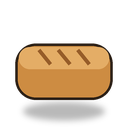
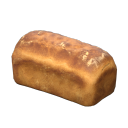
Update food assets and rebalance provisions

diff --git a/server/src/game_state/tests/hunger_tests.rs b/server/src/game_state/tests/hunger_tests.rs
@@ -60,7 +60,7 @@ fn last_hunger_update(msgs: &[ServerMessage]) -> Option<(u32, HungerState, u64)>
 
 /// The tuning anchor: one full meal per game day. The Well-Fed band must
 /// cover a day's decay, and a day's decay must be at least 90% of the band —
-/// eat once a day (jerky-sized) and you stay fed, skip it and you go hungry.
+/// eat one loaf a day and you stay fed, skip it and you go hungry.
 #[test]
 fn one_meal_per_game_day_keeps_you_fed_and_no_more() {
     let day_secs = super::super::time::REAL_DAY_DURATION_SECONDS as u64;
@@ -74,26 +74,26 @@ fn one_meal_per_game_day_keeps_you_fed_and_no_more() {
         decay_per_day * 10 >= band_width * 9,
         "a day's decay ({decay_per_day}) must nearly drain the band ({band_width}) or one meal a day stops mattering"
     );
-    // The day's meal exists in the catalog: jerky covers a full day.
+    // The day's meal exists in the catalog: bread covers a full day.
     let defs = ItemDefs::load();
-    let jerky = defs.get("jerky").expect("jerky is in items.csv");
-    assert!(u64::from(jerky.nutrition.unwrap()) >= decay_per_day);
+    let bread = defs.get("bread").expect("bread is in items.csv");
+    assert!(u64::from(bread.nutrition.unwrap()) >= decay_per_day);
 }
 
 #[tokio::test]
 async fn eating_feeds_and_consumes_the_food() {
     let game_state = make_test_game_state("eat_feeds");
-    let (id, mut rx) = make_eater(&game_state, "eater", 500).await;
+    let (id, mut rx) = make_eater(&game_state, "eater", 200).await;
     put_in_bag(&game_state, &id, 1, "bread").await;
     drain(&mut rx);
 
     game_state.use_item(&id, 1).await;
 
-    assert_eq!(game_state.hunger_satiation(&id).await, Some(680));
+    assert_eq!(game_state.hunger_satiation(&id).await, Some(740));
     assert!(bag_ids(&game_state, &id).await.is_empty(), "bread is eaten");
     let msgs = drain(&mut rx);
     let (satiation, state, poisoned) = last_hunger_update(&msgs).expect("HungerUpdate sent");
-    assert_eq!((satiation, state, poisoned), (680, HungerState::WellFed, 0));
+    assert_eq!((satiation, state, poisoned), (740, HungerState::WellFed, 0));
 }
 
 #[tokio::test]
@@ -104,7 +104,7 @@ async fn a_normal_range_meal_never_overshoots_into_stuffed() {
 
     game_state.use_item(&id, 1).await;
 
-    // 700 + 540 clamps to the soft cap, not into the Stuffed band.
+    // 700 + 300 clamps to the soft cap, not into the Stuffed band.
     assert_eq!(game_state.hunger_satiation(&id).await, Some(850));
 }
 
@@ -114,7 +114,7 @@ async fn deliberate_overeating_reaches_stuffed_and_the_cap_refuses() {
     let (id, mut rx) = make_eater(&game_state, "glutton", 820).await;
     put_in_bag(&game_state, &id, 1, "jerky").await;
     game_state.use_item(&id, 1).await;
-    // 820 is above the 800 threshold: the full 540 lands, capped at 1000.
+    // 820 is above the 800 threshold: the full 300 lands, capped at 1000.
     assert_eq!(game_state.hunger_satiation(&id).await, Some(SATIATION_MAX));
     let msgs = drain(&mut rx);
     assert_eq!(last_hunger_update(&msgs).unwrap().1, HungerState::Stuffed);

diff --git a/doc/assets/items.md b/doc/assets/items.md
@@ -39,11 +39,20 @@
     - 원화는 chatgpt ![원화](../images/dagger.png)
 - ornate_cross_belt.glb — Meshy.ai (유료 생성, 2026-08-02, "Ornate Cross Belt"). 완전 소유권·상업 OK (characters.md License 참조). FBX를 Blender로 임포트해 0.4배 스케일 적용(직경 0.4m, 높이 0.15m), 원점=바닥 중심, 텍스처 512²로 축소, 검은 emissive 제거. 아이콘은 Cycles 직교 측면·위 각도 렌더 512²→128² (2026-08-02)
     - 원화는 chatgpt ![원화](../images/ornate_cross_belt.png)
+- apple.glb — Meshy AI "Crimson Apple with Leaf" (Pro 요금제, 2026-08-03 생성). 지름 0.15m로 스케일 적용, 원점을 바닥 중앙으로 이동. 텍스처 2048→512 축소, metallic/emissive 맵은 값이 거의 0이라 제거하고 metallicFactor=0. `client/public/items/apple.png` 아이콘은 이 모델을 128x128로 렌더링한 것
+    - 원화는 ChatGPT 이미지 생성 (ChatGPT Pro 20x, 2026-08-03) ![원화](../images/apple.png)
+- bread.glb — Meshy.ai (유료 생성, 2026-08-03, "Crusty Loaf of Bread"). 완전 소유권·상업 OK (characters.md License 참조). FBX를 Blender로 임포트해 길이 0.28m로 스케일 적용(0.28×0.14×0.14m, 사과보다 크게), 원점=바닥 중심, 텍스처 512²로 축소, 검은 emissive 제거. 아이콘은 Cycles 직교 측면·위 각도 렌더 512²→128² (2026-08-04)
+    - 원화는 ChatGPT 이미지 생성 (ChatGPT Pro 20x, 2026-08-04) ![원화](../images/bread.png)
+- cheese_wedge.glb — Meshy.ai (유료 생성, 2026-08-03, "Swiss cheese wedge"). 완전 소유권·상업 OK (characters.md License 참조). GLB를 Blender로 임포트해 밑면 0.15m로 스케일 적용(0.15×0.15×0.08m, bread.glb의 절반 길이), 원점=바닥 중심, 텍스처 512²로 축소, 검은 emissive 제거. 아이콘은 Cycles 직교 측면·위 각도 렌더 512²→128² (2026-08-04)
+    - 원화는 ChatGPT 이미지 생성 (ChatGPT Pro 20x, 2026-08-04) ![원화](../images/cheese_wedge.png)
+- jerky.glb — Meshy.ai (유료 생성, 2026-08-03, "Beef Jerky Strips"). 완전 소유권·상업 OK (characters.md License 참조). GLB를 Blender로 임포트해 바닥 면적 0.16m로 스케일 적용(0.16×0.16×0.05m, 사과와 같은 급이지만 납작한 무더기), 원점=바닥 중심, 텍스처 512²로 축소, 검은 emissive 제거. 아이콘은 Cycles 직교 측면·위 각도 렌더 512²→128², 2026-08-02 프로시저럴 플레이스홀더를 교체 (2026-08-04)
+    - 원화는 ChatGPT 이미지 생성 (ChatGPT Pro 20x, 2026-08-04) ![원화](../images/jerky.png)
 - fishing_rod.glb — Meshy.ai (유료 생성, 2026-07-26, image-to-3D from the archived concept render). 완전 소유권·상업 OK (characters.md License 참조). Textures downscaled to 512², transform matched to spear.glb's hand-socket convention, `rod_tip` empty baked at the tip (script, 2026-07-28)
     - 원화는 chatgpt ![원화](../images/fishing_rod.png)
 - Fishing icons (10): fishing_rod.png, raw_minnow.png, raw_perch.png, raw_trout.png, river_salmon.png, golden_sturgeon.png, old_boot.png, clump_of_kelp.png, message_in_a_bottle.png, sunken_coin_pouch.png — ChatGPT image generation (2026-07-25, contributor-owned account), concept renders cut to 128×128 transparent icons
     - 원화: [rod](../images/fishing_rod.png) · [minnow](../images/raw_minnow.png) · [perch](../images/raw_perch.png) · [trout](../images/raw_trout.png) · [salmon](../images/river_salmon.png) · [sturgeon](../images/golden_sturgeon.png) · [boot](../images/old_boot.png) · [kelp](../images/clump_of_kelp.png) · [bottle](../images/message_in_a_bottle.png) · [pouch](../images/sunken_coin_pouch.png)
 - scroll_of_party_summon.png — scroll_of_return.png의 hue-rotation 파생 (스크립트, 2026-07-31): 붉은 봉인·장식 → 보라. 3D는 기존 scroll.glb 재사용
-- Hunger icons (9): apple.png, bread.png, cheese.png, jerky.png, grilled_minnow.png, grilled_perch.png, grilled_trout.png, grilled_salmon.png, grilled_sturgeon.png — 자체 제작 프로시저럴 플레이스홀더 (PIL 스크립트, 2026-08-02, 512² 드로잉→128² 다운스케일, 라이선스 문제 없음). 기존 ChatGPT 아이콘 스타일과 다르므로 추후 AI 아이콘으로 교체 예정
+- Hunger icons — 자체 제작 프로시저럴 플레이스홀더 (PIL 스크립트, 2026-08-02, 512² 드로잉→128² 다운스케일, 라이선스 문제 없음). 처음 9개를 만들었고, 남은 플레이스홀더는 grilled_minnow.png, grilled_perch.png, grilled_trout.png, grilled_salmon.png, grilled_sturgeon.png 5개다. 기존 ChatGPT 아이콘 스타일과 다르므로 추후 AI 아이콘으로 교체 예정
+    - 교체 완료: apple.png(2026-08-03), bread.png·jerky.png(2026-08-04) — 각 모델의 Cycles 렌더. cheese.png는 cheese_wedge.png로 대체되고 삭제됨
 - campfire_kit.glb — Meshy.ai (유료 생성, 2026-08-03, "Firewood Bundle"). 완전 소유권·상업 OK (characters.md License 참조). FBX를 Blender로 임포트해 0.45배 스케일 적용(장작 길이 0.45m, 0.45×0.45×0.30m 눕힌 자세), 원점=바닥 중심, 텍스처 512²로 축소, 검은 emissive 제거. 아이콘 campfire_kit.png는 Cycles 직교 측면·위 각도 렌더 512²→128², 2026-08-02 프로시저럴 플레이스홀더를 교체 (2026-08-03)
     - 원화는 ChatGPT 이미지 생성 (ChatGPT Pro 20x, 2026-08-03) ![원화](../images/campfire_kit.png)

diff --git a/doc/HUNGER.md b/doc/HUNGER.md
@@ -54,12 +54,12 @@
 
 nutrition은 게임 시간으로 환산해 읽는다: 60 ≈ 게임 2.7시간, 540 = 게임 하루.
 
-| 아이템 | nutrition | 가격 | 비고 |
-|--------|-----------|------|------|
-| apple (사과) | 60 | 3c | 간식 |
-| bread (빵) | 180 | 8c | 게임 1/3일 |
-| cheese (치즈) | 300 | 20c | 반나절 |
-| jerky (육포) | 540 | 40c | **하루 한 끼**, D&D 레이션 포지션 |
+| 아이템 | nutrition | 무게 | 가격 | 비고 |
+|--------|-----------|------|------|------|
+| apple (사과) | 60 | 0.3 | 3c | 간식 |
+| cheese (치즈) | 180 | 0.4 | 12c | 작은 식사 |
+| jerky (육포) | 300 | 0.25 | 30c | 가볍고 보존성이 좋은 여행식 |
+| bread (빵) | 540 | 1.0 | 20c | **하루 한 끼**, 부피가 큰 주식 |
 
 - `data-src/items.csv`에 `nutrition` 열을 추가한다. `nutrition`이 있는 아이템은 먹을 수 있고, 스택 가능(`stackable true`), `category "food"`.
 - 음식은 HP를 회복하지 않는다 — 회복은 포션의 영역. 생선의 기존 `Heal(dice)`는 유지하고 nutrition이 얹힌다 (아래).

diff --git a/doc/assets/props.md b/doc/assets/props.md
@@ -19,8 +19,6 @@
 - river rock https://sketchfab.com/3d-models/river-rocks-model-2dc354c1f84a43f493343f54e05eaed9
 - campfire.glb — Meshy AI "Crimson Ember Stack" (Pro 요금제, 2026-08-02 생성). Meshy 유닛큐브를 지름 0.6m로 스케일 적용, 원점을 바닥 중앙으로 이동. 텍스처 2048→512 축소, metallic 맵은 전부 0이라 제거하고 metallicFactor=0. emissive는 잔불 발광이라 유지
     - 원화는 ChatGPT 이미지 생성 (ChatGPT Pro 20x, 2026-08-03) ![원화](../images/campfire.png)
-- apple.glb — Meshy AI "Crimson Apple with Leaf" (Pro 요금제, 2026-08-03 생성). 지름 0.15m로 스케일 적용, 원점을 바닥 중앙으로 이동. 텍스처 2048→512 축소, metallic/emissive 맵은 값이 거의 0이라 제거하고 metallicFactor=0. `client/public/items/apple.png` 아이콘은 이 모델을 128x128로 렌더링한 것
-    - 원화는 ChatGPT 이미지 생성 (ChatGPT Pro 20x, 2026-08-03) ![원화](../images/apple.png)
 
 ## House
 
